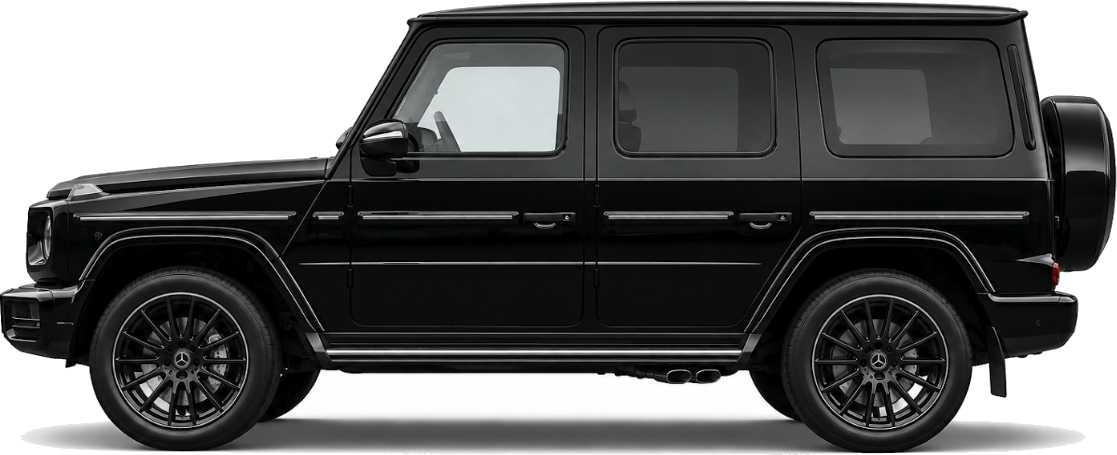
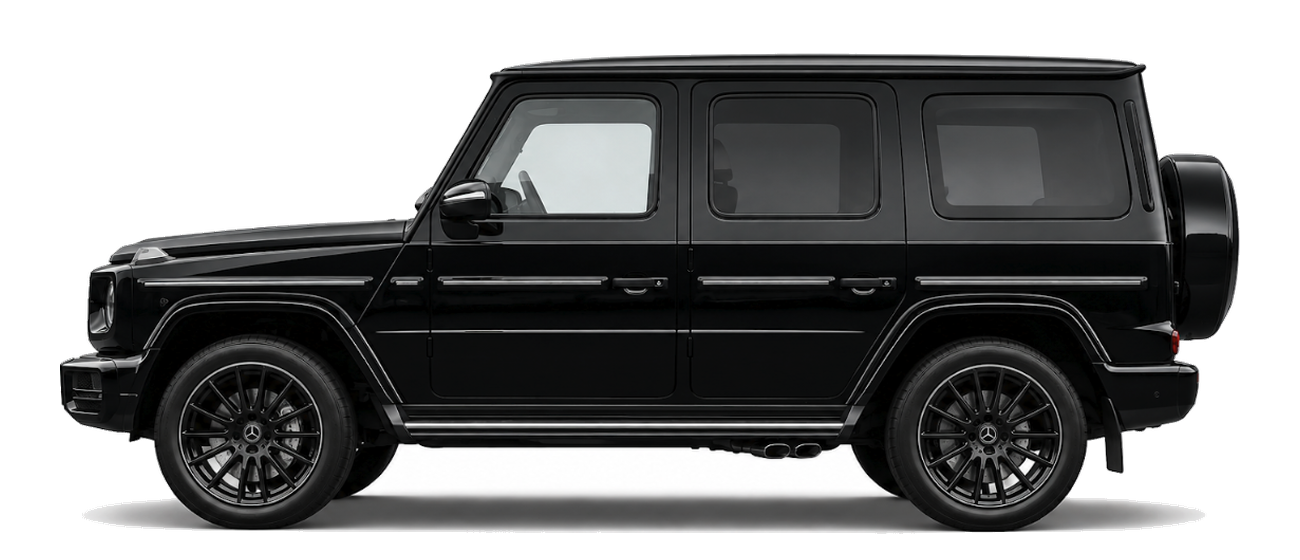
fix(BT mock): 車両を同一キャンバスで同サイズ・接地ライン統一/表示サイズ位置をウルスに合わせ調整

diff --git a/hourly-mock.html b/hourly-mock.html
@@ -17,7 +17,7 @@ body{font-family:"Hiragino Sans","Hiragino Kaku Gothic ProN",sans-serif;backgrou
 .hero .kv{width:100%;display:block}
 .carscrim{position:absolute;inset:0;background:radial-gradient(62% 66% at 50% 58%,rgba(9,9,12,.9),rgba(9,9,12,0) 74%);opacity:0;transition:opacity .6s;pointer-events:none}
 .carscrim.on{opacity:1}
-.carlayer{position:absolute;left:50%;bottom:12%;width:62%;opacity:0;transform:translateX(calc(-50% + 40px));transition:opacity .5s ease,transform .5s ease;filter:drop-shadow(0 14px 16px rgba(0,0,0,.6));pointer-events:none;z-index:2}
+.carlayer{position:absolute;left:50%;bottom:2%;width:70%;opacity:0;transform:translateX(calc(-50% + 34px));transition:opacity .5s ease,transform .5s ease;filter:drop-shadow(0 12px 14px rgba(0,0,0,.6));pointer-events:none;z-index:2}
 .carlayer.on{opacity:1;transform:translateX(-50%)}
 .carcap{position:absolute;left:12px;bottom:12px;z-index:3;font-size:11px;font-weight:800;letter-spacing:1px;color:#fff;background:rgba(0,0,0,.45);border:1px solid rgba(255,255,255,.18);padding:4px 11px;border-radius:20px}
 .dots{position:absolute;left:0;right:0;bottom:8px;display:flex;justify-content:center;gap:6px;z-index:3}
